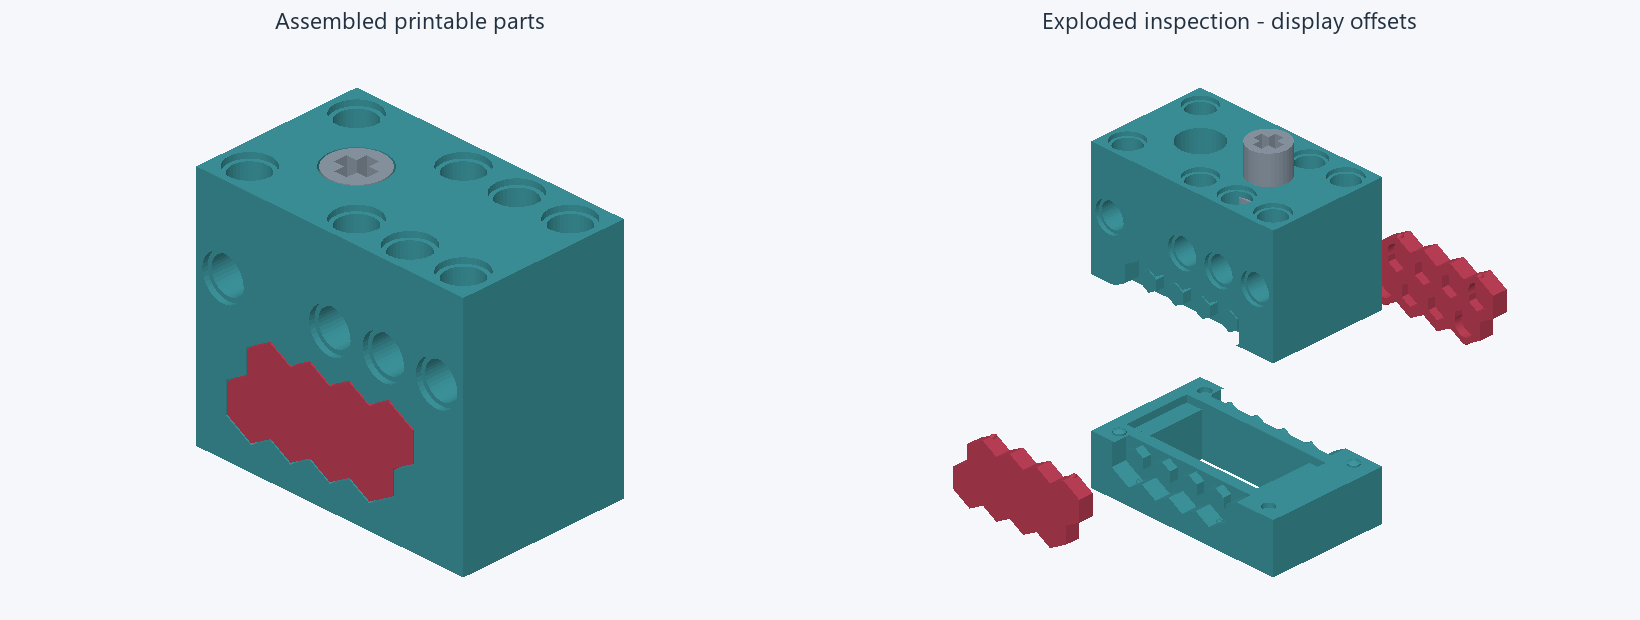
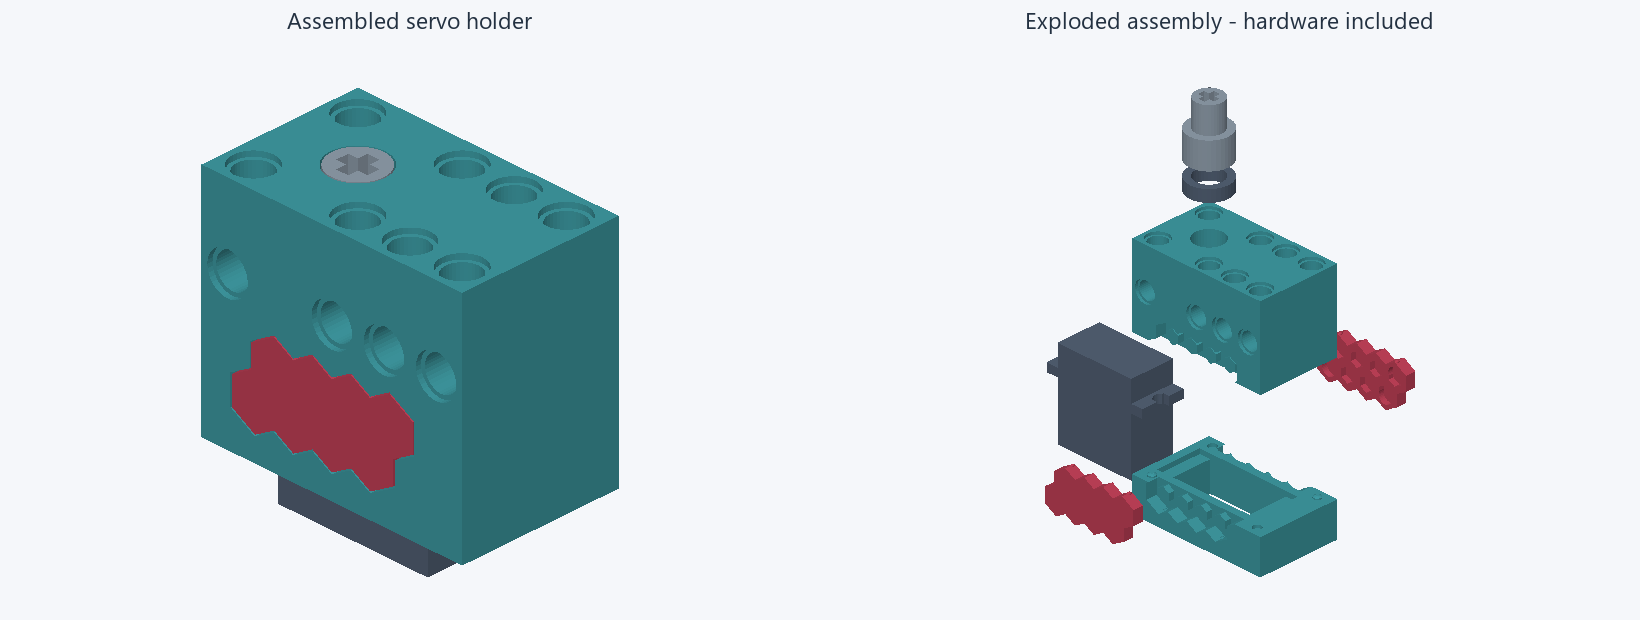
Explain servo holder and show complete assembled and exploded CAD

diff --git a/tools/render-review.py b/tools/render-review.py
@@ -18,6 +18,7 @@ BG = (245, 247, 250)
 TEAL = (63, 154, 162)
 RED = (194, 66, 89)
 GREY = (144, 158, 171)
+HARDWARE = (84, 98, 117)
 NS = '{http://schemas.microsoft.com/3dmanufacturing/core/2015/02}'
 
 
@@ -112,12 +113,26 @@ def main():
     scene = json.loads(args.scene.read_text())
     check = {b['id']: b for b in scene['bodies']}
     target = ROOT/'review/current'
-    colors = {8:TEAL, 18:TEAL, 54:GREY, 173:RED, 267:RED}
+    model = json.loads((ROOT/'design/current.model.json').read_text())
+    colors = {1:HARDWARE, 8:TEAL, 18:TEAL, 53:HARDWARE, 54:GREY, 173:RED, 267:RED}
     assembled = [(scene_mesh(check[i]), color) for i, color in colors.items()]
-    offsets = {8:(0,0,-10), 18:(0,0,18), 54:(15,0,24), 173:(0,35,0), 267:(0,-35,0)}
+    view = next(v for v in model['views'] if v['name'] == 'Exploded assembly')
+    structure = model['assembly']['component_structure']
+    definitions = {d['id']:d for d in structure['definitions']}
+    occurrences = {o['id']:o for o in structure['occurrences']}
+    offsets = {}
+    for offset in view['occurrence_offsets']:
+        if offset['rotation'] != [0,0,0,1]:
+            raise ValueError('The assembly renderer requires translation-only display offsets')
+        definition = definitions[occurrences[offset['occurrence_id']]['component_id']]
+        for body_id in definition['body_ids']:
+            offsets[body_id] = offset['translation']
+    # Lift these reference-view parts clear of the upper shell so all seven parts are visible.
+    offsets[53] = (0,0,44)
+    offsets[54] = (0,0,60)
     exploded = [(scene_mesh(check[i], offsets[i]), color) for i, color in colors.items()]
-    pair(render(assembled, 'Assembled printable parts', (1,-1,.8)),
-         render(exploded, 'Exploded inspection - display offsets', (1,-1,.8)), target/'assembly.png')
+    pair(render(assembled, 'Assembled servo holder', (1,-1,.8)),
+         render(exploded, 'Exploded assembly - hardware included', (1,-1,.8)), target/'assembly.png')
     clip = project_mesh(3)
     pair(render([(clip, RED)], 'Clip pocket side - full walls and four nubs', (1,-1,1.8)),
          render([(clip, RED)], 'Clip rear / bed face - flat backing', (-1,1,-1.8)), target/'clip-front-back.png')

diff --git a/README.md b/README.md
@@ -1,6 +1,18 @@
-# INJS2065 Technic case
+# INJS2065 servo holder for LEGO Technic
+
+A printable clamshell holder for the INJS2065 servo, with Technic mounting holes, two hex-pattern retaining clips and a bearing-supported output adapter. The adapter friction-fits the servo shaft and provides a Technic cross socket on the other side.
+
+![Assembled and exploded servo holder](review/current/assembly.png)
+
+Teal: upper and lower clamshells. Red: the two retaining clips. Light grey: the output hub. Dark grey: the reference servo and MR128 bearing, which are purchased hardware and are excluded from the print projects. The exploded image separates the parts for visibility; these display offsets are not assembly clearances.
+
+Print five parts: both clamshells, both clips and the output hub. Seat the servo and bearing in their modeled locations, fit the hub onto the servo shaft, close the shells and slide the clips onto the side hex features. Check the fits and retention described in [DESIGN.md](DESIGN.md) before putting the holder into service.
+
+## Files to open
 
 The current editable design is [current.nbcad](design/current.nbcad), with its matching [native model](design/current.model.json): 374 features and seven bodies. The CAD construction remains editable.
+
+The native project includes **Assembled ISO**, **Exploded assembly** and **PETG print by object** named views.
 
 Use [assembly-petg.3mf](print/assembly-petg.3mf) for all five printed parts, or [fit-test-petg.3mf](print/fit-test-petg.3mf) for both complete clamshells and both clips. Both projects use Bambu X2D, 0.4 mm nozzle, Bambu PETG Basic and printing by object. Both projects have four local rail quality modifiers and 0.12 mm shell detail bands, with Arachne on shells and Classic on clips/hub. There are no supports, support paint, brims or skirts. Fresh native slices estimate 3 h 29 min / 23.69 g for the assembly and 2 h 54 min / 22.46 g for the fit test. No print job was sent.
 
@@ -8,11 +20,11 @@ This is a fit-test candidate. Elastic preload, holding force and insertion/holdi
 
 CAD replay, export preflight, mesh/settings checks and independent native slices pass. Run the complete-shell fit test before mechanical acceptance. [The current report](DESIGN.md#current-review-and-print-decision) includes the decision, cavity/rear/section views and reviewed slicer evidence.
 
-The [contact-path follow-up](DESIGN.md#contact-path-follow-up) now checks 20 exact rigid poses on both sides: the installed seat has substantially less nominal overlap than the withdrawal obstruction. Whole-clip inward motion is blocked by supporting geometry, so strain analysis must model local corner flex. The current version has not yet been physically tested.
-
-![Current assembled and exploded printable parts](review/current/assembly.png)
-
 ![Current clip and detent corner](review/current/clip-and-corner.png)
+
+## Validation and remaining checks
+
+The [contact-path follow-up](DESIGN.md#contact-path-follow-up) checks 20 exact rigid poses on both sides: the installed seat has substantially less nominal overlap than the withdrawal obstruction. Whole-clip inward motion is blocked by supporting geometry, so strain analysis must model local corner flex. The current version has not yet been physically tested.
 
 Run `node tools/verify-current.mjs` to replay and check the seven current meshes, topologies and assembly contacts against [the current reference](review/current/cad-reference.json). This regression check establishes repeatability, not mechanical qualification. Current section data, mesh checks, toolpath checks, file hashes and native slicing receipts are in [review/current](review/current).
 
@@ -22,4 +34,4 @@ Run `python tools/slice-print.py` for fresh Bambu native slices and actual rail 
 
 The locally user-modified `review/hub-orientation-20261010/flipped-no-support.3mf` is preserved at its original path. It is separate from the current print projects above.
 
-[Final adversarial review](review/current/final-review.json) records the resolved findings and validation limits. The application section viewer is on the Bevy integration branch; its main delivery depends on [PR #124](https://github.com/limo-cad/Limo-CAD/pull/124).
+[Final adversarial review](review/current/final-review.json) records the resolved findings and validation limits.

diff --git a/DESIGN.md b/DESIGN.md
@@ -18,9 +18,9 @@ The reviewed GUI slice shows all five objects, no supports or brims, the flipped
 
 ## Current inspection views
 
-These renders use the current CAD/export meshes, with a depth buffer; they do not alter geometry. Exploded offsets are for inspection and exclude the reference servo and bearing. The enlarged corner and native OCCT sections below show the critical mating details; deformation is not simulated.
+These renders use the current CAD/export meshes, with a depth buffer; they do not alter geometry. The assembly overview includes the reference servo and bearing. It starts from the saved exploded-view offsets, then lifts the bearing and hub clear of the upper shell for visibility. The enlarged corner and native OCCT sections below show the critical mating details; deformation is not simulated.
 
-![Current assembled and exploded printable parts](review/current/assembly.png)
+![Current assembled and exploded servo holder, including reference hardware](review/current/assembly.png)
 
 ![Current clip pocket and rear faces](review/current/clip-front-back.png)
 
